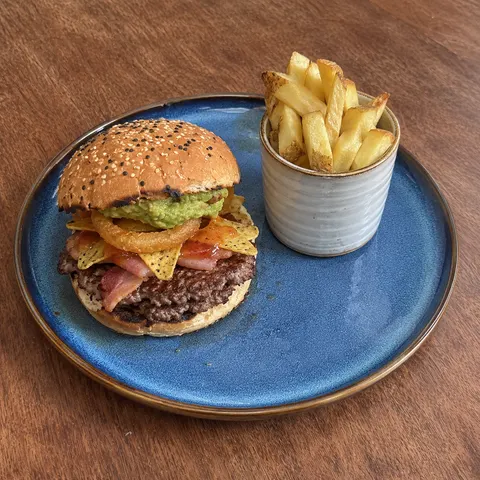
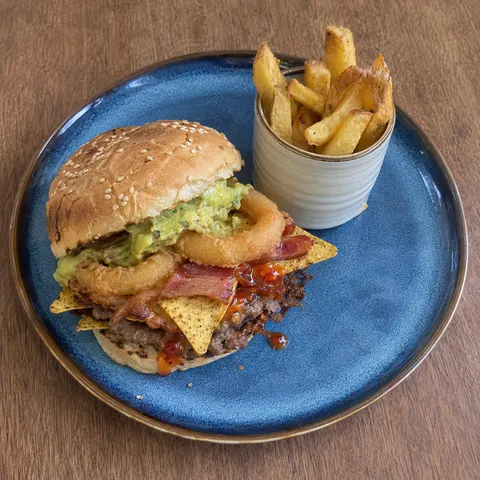
Redo batch 1 menu photos as casual phone shots (batch 5)
Same dishes, files and ingredients; regenerated by Codex (gpt-6.2-sol) to look
less polished, per Christiaan's feedback. Logged in the CLAUDE.md content table.

diff --git a/CLAUDE.md b/CLAUDE.md
@@ -71,15 +71,15 @@ Concretely:
 | Trading hours unconfirmed | `config.ts` → `venue.hours` | **Resolved 2026-07-22.** Real hours from Christiaan: Mon–Tue 09:00–20:00, Wed–Thu 09:00–21:00, Fri–Sat 09:00–00:00, Sun closed. Note: Coffee & Cars still runs one Sunday a month — they open for the event. |
 | Email is invented | `config.ts` → `venue.email` | **Resolved 2026-07-22.** Real inbox: `jimmysburgerbar1@gmail.com`. |
 | Steak menu photos are AI-generated | `public/images/menu/steaks/*.webp` (rump, jalapeño, fillet, extra sauce), wired in `tenants/jimmys/config.ts` → Steaks; 1254px PNG originals in `Images/ai-menu/steaks/` | **Covered by the 2026-07-22 override.** Generated in ChatGPT by Christiaan 2026-09-28, styled on Jimmy's real blue-plate photos, chips + onion rings as Jimmy's serves them. The Instagram dump has no real steak photos. 200g/300g sizes share one image per cut. Replace with real photos when shot. |
-| Burger menu photos are partly AI-generated | `public/images/menu/burgers/*.webp`, wired in `tenants/jimmys/config.ts` → Burgers; PNG originals in `Images/ai-menu/burgers/` | **Covered by the 2026-07-22 override.** Chicken Burger, Smash Burger, Gourmet Beef Burger, Gourmet Chicken Burger and Nacho Burger were generated by Codex 2026-11-19 to match the updated menu, with Jimmy's blue crockery and chips. Pizza Burger remains AI (Codex, 2026-09-28). Beef Burger uses Christiaan's real iPhone photo (`Images/Iphone/MAPPING.md`). The older burger assets remain in the repo. Replace the generated photos when real ones are available. |
+| Burger menu photos are partly AI-generated | `public/images/menu/burgers/*.webp`, wired in `tenants/jimmys/config.ts` → Burgers; PNG originals in `Images/ai-menu/burgers/` | **Covered by the 2026-07-22 override.** Chicken Burger, Smash Burger, Gourmet Beef Burger, Gourmet Chicken Burger and Nacho Burger were regenerated by Codex 2026-11-19 in the style of a casual phone photo, with Jimmy's blue crockery and chips. Pizza Burger remains AI (Codex, 2026-09-28). Beef Burger uses Christiaan's real iPhone photo (`Images/Iphone/MAPPING.md`). The older burger assets remain in the repo. Replace the generated photos when real ones are available. |
 | Small Plates menu photos are partly AI-generated | `public/images/menu/small-plates/*.webp`, wired in `tenants/jimmys/config.ts` → Small Plates; PNG originals in `Images/ai-menu/small-plates/` | **Covered by the 2026-07-22 override.** Codex generated Russian & Chips, Jalapeño Poppers (Half), Jalapeño Poppers (Full), Nachos (Half), Steak Strips, Loaded Fries, Loaded Fries with Extra Russian, Plate of Chips, Plate of Onion Rings, Italian Meatballs, Mozzarella Sticks, Halloumi Sticks and Crumbed Mushroom on 2026-11-19, using Jimmy's blue crockery as the reference. Nachos (Full) and Meatballs use Christiaan's real iPhone photos (`VEOQ0291.HEIC` and `KYAG4956.HEIC`). Replace the generated photos when real ones are available. |
 | Breakfast menu photos are partly AI-generated | `public/images/menu/breakfast/*.webp`, wired in `tenants/jimmys/config.ts` → Breakfast; PNG originals in `Images/ai-menu/breakfast/` | **Covered by the 2026-07-22 override.** Codex generated Avo on Toast, Carb Clever Breakfast, Breakfast Wrap, Eggs Benedict and Mince on Toast on 2026-11-19, using Jimmy's real slate-plate breakfast photo as a reference. Breakfast Bun and Breakfast Burger use Codex images from 2026-09-29. Jimmy's Breakfast uses the real `public/images/gallery/breakfast-plate.jpg`, and Omelette uses a still from Christiaan's real iPhone video (`GKKA6427.MOV`). The older generated assets remain in the repo. Replace generated photos when real ones are available. |
 | Platter menu photos are partly AI-generated | `public/images/menu/platters/*.webp`, wired in `tenants/jimmys/config.ts` → Platters; generated PNG original in `Images/ai-menu/platters/` | **Covered by the 2026-07-22 override.** Snack Platter was generated by Codex 2026-09-29 and limited to the configured ingredients. Warrior Platter uses the real `public/images/menu/warrior-platter.jpeg`. **Resolved 2026-11-19.** Snack Platter now uses Christiaan's real iPhone photo; no AI platter photos remain. The generated PNG is kept in `Images/ai-menu/platters/`. |
 | Chicken Meals menu photos are partly AI-generated | `public/images/menu/chicken-meals/*.webp`, wired in `tenants/jimmys/config.ts` → Chicken Meals; PNG originals in `Images/ai-menu/chicken-meals/` | **Covered by the 2026-07-22 override.** Chicken Wings, Chicken Strips and Chicken Schnitzel (Half) were generated by Codex 2026-11-19 with chips on Jimmy's blue crockery. Chicken Schnitzel (Full) uses Christiaan's real iPhone photo (`IMG_4081.HEIC`), showing the cheese sauce and salad options. The older assets remain in the repo. Replace generated photos when real ones are available. |
 | Salad menu photos are partly AI-generated | `public/images/menu/salads/*.webp`, wired in `tenants/jimmys/config.ts` → Salads; PNG originals in `Images/ai-menu/salads/` | **Covered by the 2026-07-22 override.** Greek Salad and Burger Salad use Codex images from 2026-09-29. Chicken Salad and Halloumi Salad were generated by Codex 2026-11-19 to match the updated ingredients. Jimmy's Salad and Steak Salad use Christiaan's real iPhone photos (Steak Salad: `IMG_2233.HEIC`). Replace generated photos when real ones are available. |
 | Campaign burger images look AI-generated or heavily processed, provenance not recorded | `public/images/campaign/beef-burger-hand.webp`, `chicken-burger-hand.webp` (Home burger panels), `gourmet-burger.webp` | **Unverified, flagged 2026-11-19.** Not logged when added (2026-07-22 overhaul). `gourmet-burger.webp` is no longer used: the Food & Drinks food header is now a real chicken-burger loop (`videos/chicken-burger-loop.mp4`). The two hand-held panels are still live. Confirm with Christiaan, then log or replace them. |
-| Toasted Sandwiches menu photos are AI-generated | `public/images/menu/toasted-sandwiches/*.webp`, wired in `tenants/jimmys/config.ts` → Toasted Sandwiches; PNG originals in `Images/ai-menu/toasted-sandwiches/` | **Covered by the 2026-07-22 override.** Chicken Mayo & Mozzarella, Bacon, Egg & Cheese, Bacon, Mushroom & Cheese, Bacon & Cheese and Cheese & Tomato are AI-generated (Codex, 2026-11-19), styled on Jimmy's real blue-plate photos with chips. Replace with real photos when shot. |
-| Wraps menu photos are AI-generated | `public/images/menu/wraps/*.webp`, wired in `tenants/jimmys/config.ts` → Wraps; PNG originals in `Images/ai-menu/wraps/` | **Covered by the 2026-07-22 override.** Chicken Wrap and Steak Strip Wrap were generated by Codex 2026-11-19 to match the menu, with Jimmy's blue crockery and chips. Replace with real photos when shot. |
+| Toasted Sandwiches menu photos are AI-generated | `public/images/menu/toasted-sandwiches/*.webp`, wired in `tenants/jimmys/config.ts` → Toasted Sandwiches; PNG originals in `Images/ai-menu/toasted-sandwiches/` | **Covered by the 2026-07-22 override.** Chicken Mayo & Mozzarella, Bacon, Egg & Cheese and Bacon, Mushroom & Cheese were regenerated by Codex 2026-11-19 in the style of a casual phone photo, with Jimmy's blue crockery and chips. Bacon & Cheese and Cheese & Tomato use the earlier Codex images from 2026-11-19. Replace with real photos when shot. |
+| Wraps menu photos are AI-generated | `public/images/menu/wraps/*.webp`, wired in `tenants/jimmys/config.ts` → Wraps; PNG originals in `Images/ai-menu/wraps/` | **Covered by the 2026-07-22 override.** Chicken Wrap and Steak Strip Wrap were regenerated by Codex 2026-11-19 in the style of a casual phone photo, with Jimmy's blue crockery and chips. Replace with real photos when shot. |
 | Dessert menu photos are partly AI-generated | `public/images/menu/desserts/*.webp`, wired in `tenants/jimmys/config.ts` → Desserts; PNG original in `Images/ai-menu/desserts/` | **Covered by the 2026-07-22 override.** Ice Cream & Chocolate Sauce was generated by Codex 2026-11-19, using Jimmy's sundae glass as a reference. Italian Kisses (4 pieces) and Affogato use Christiaan's real iPhone photos (`IMG_4179.HEIC` and `IMG_4194.HEIC`). Replace the generated photo when a real one is available. |
 
 ---
